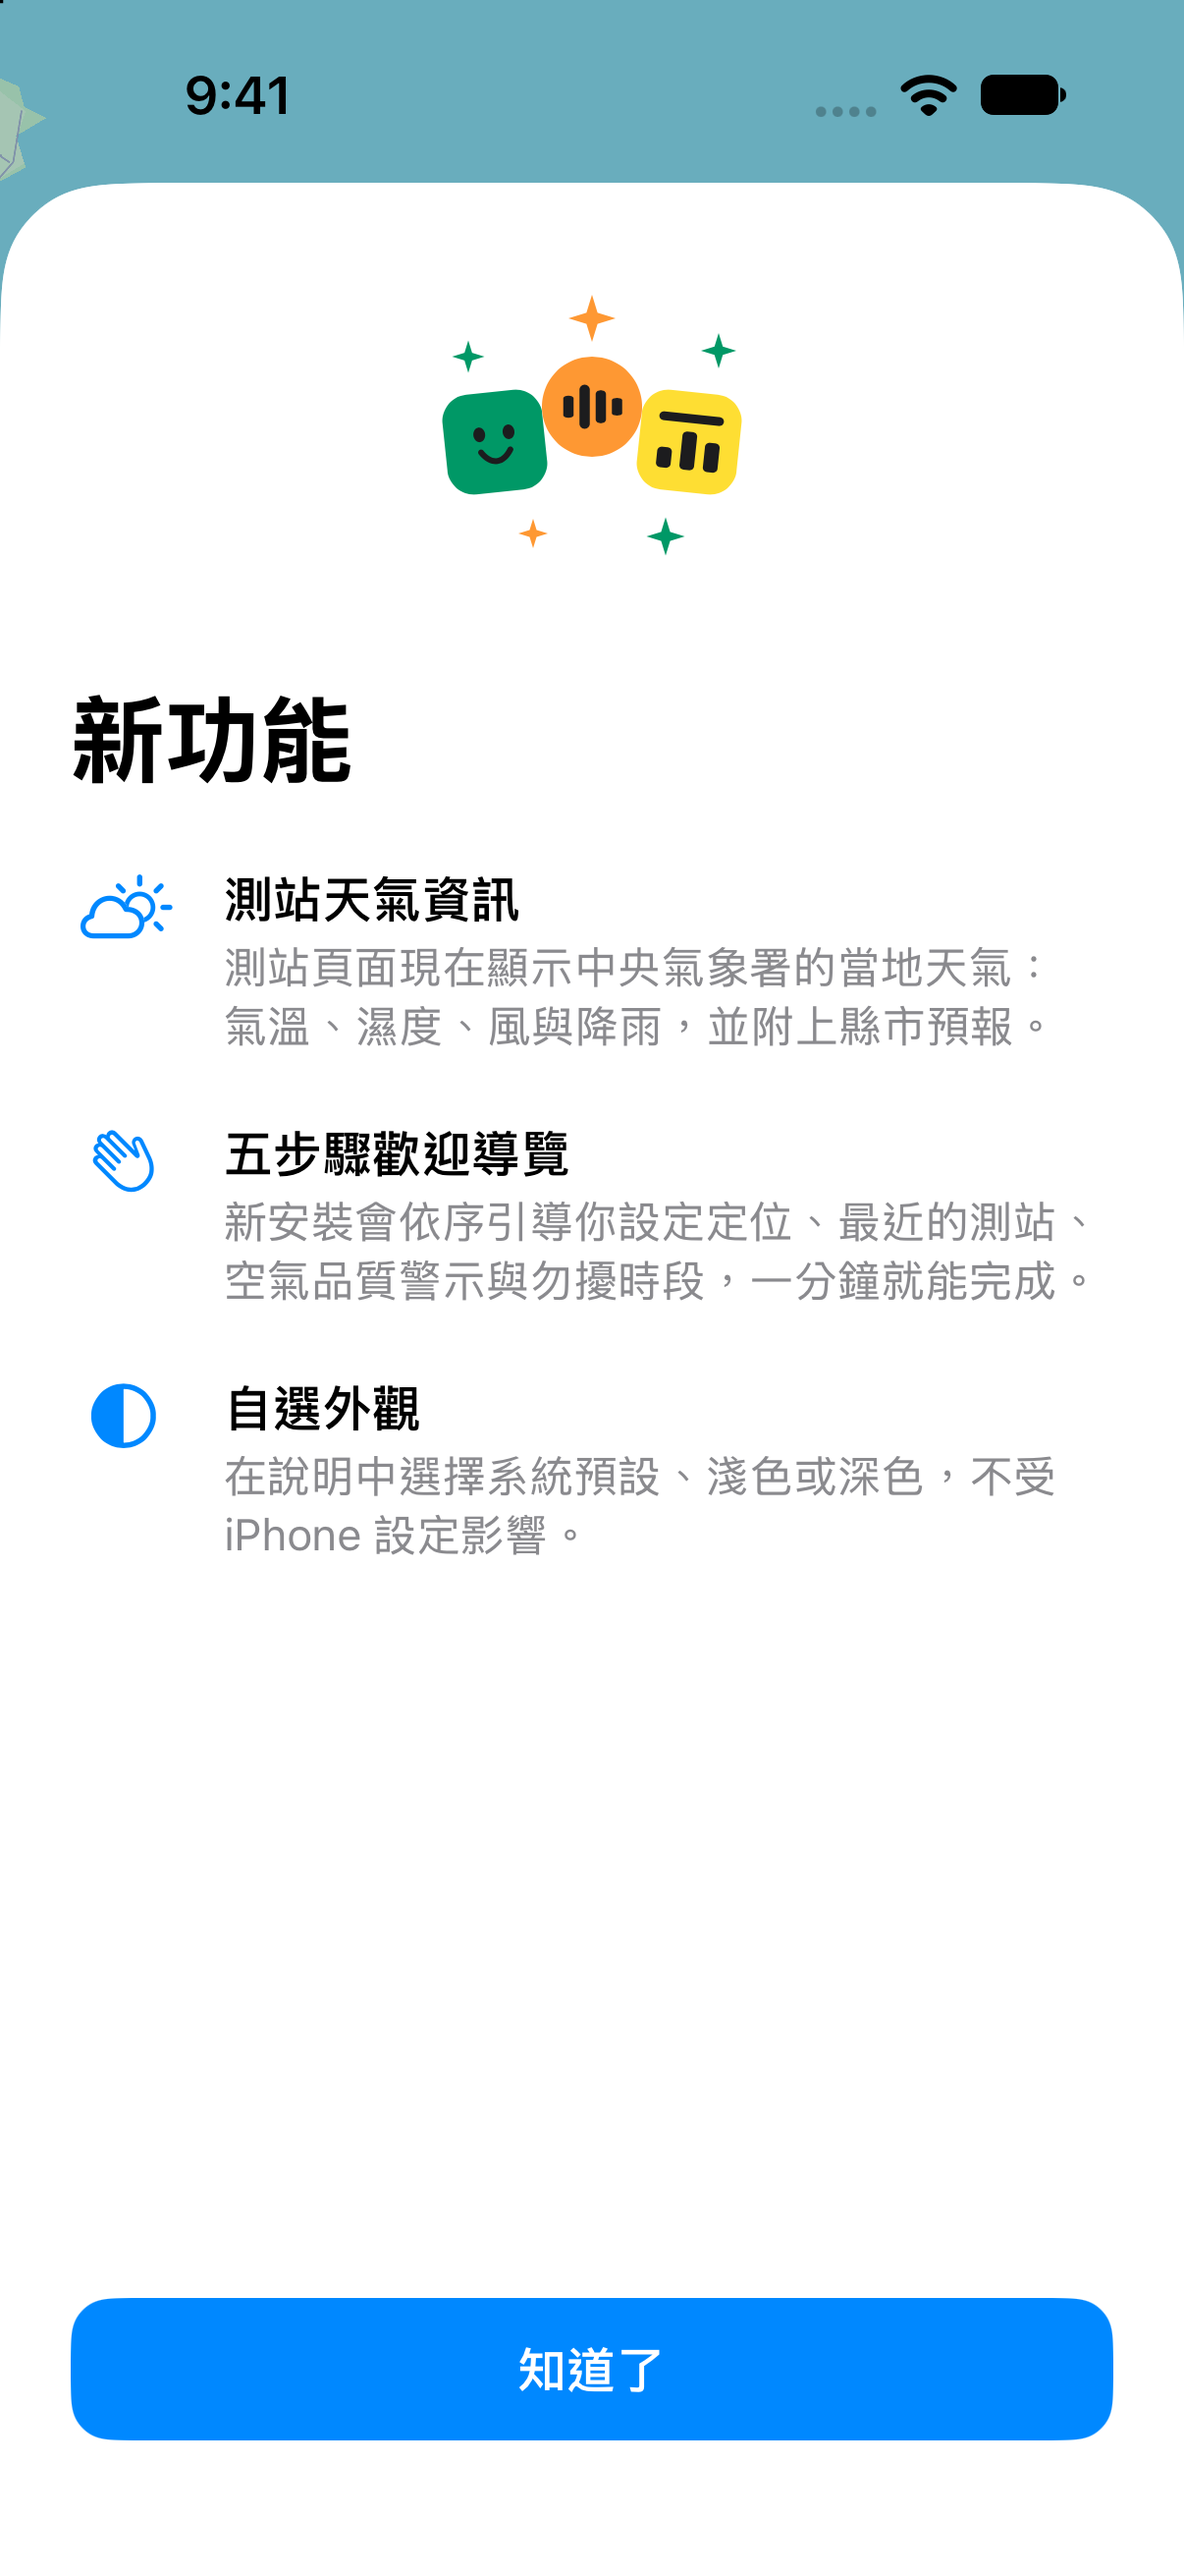
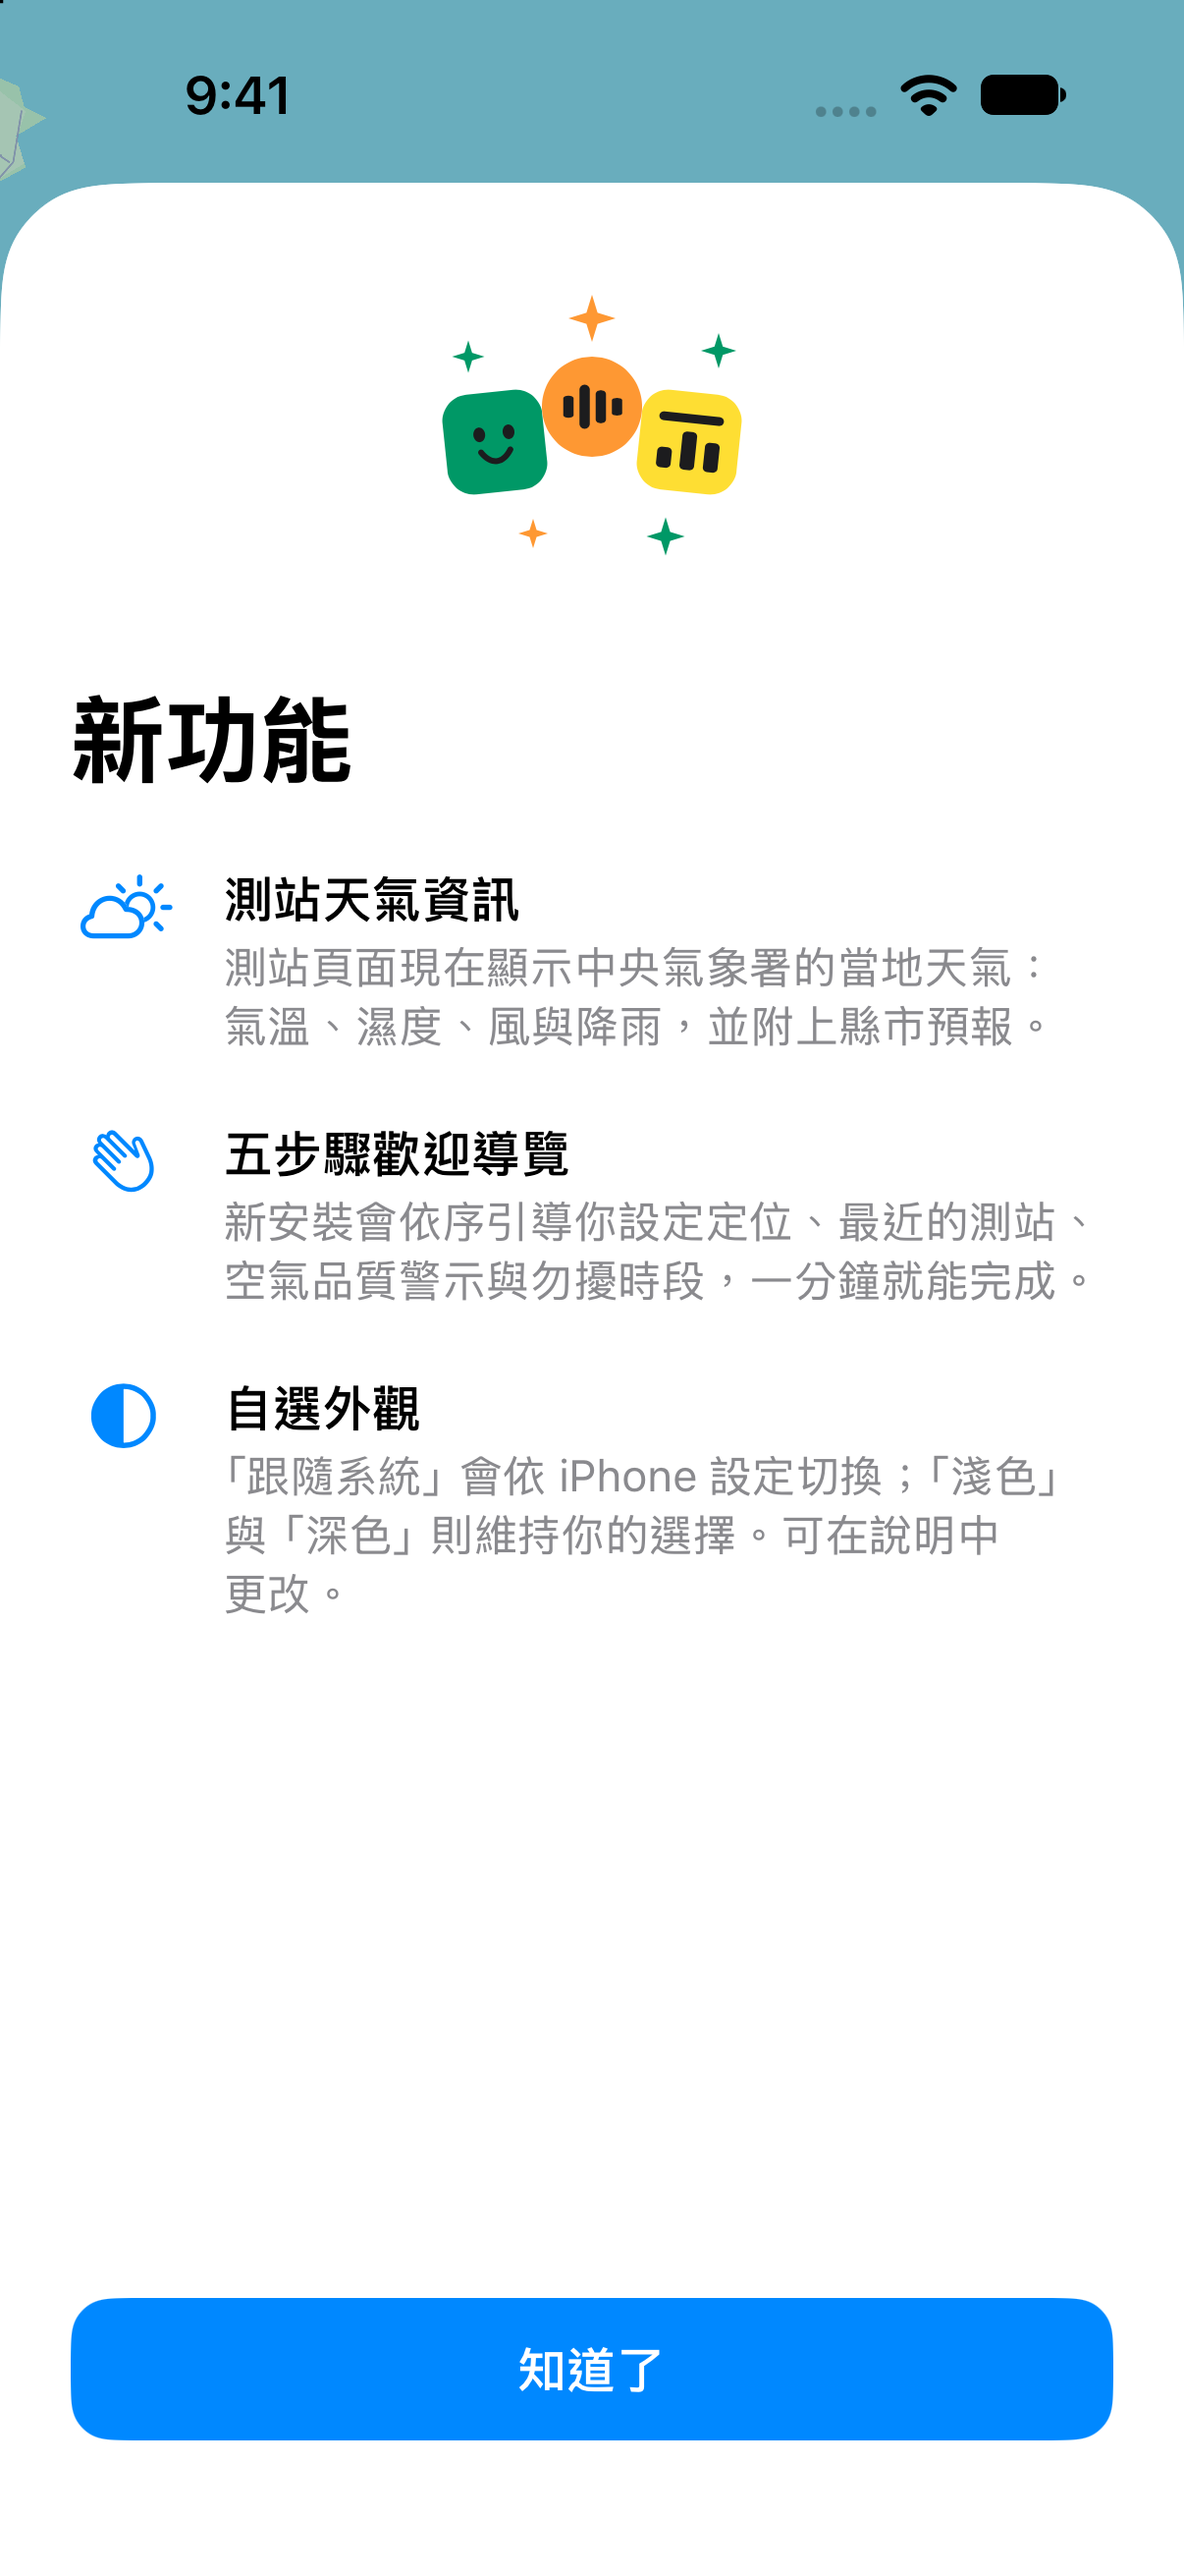
FOX-142: Hold What's New only for prompts this launch asks for; wait and open after they are answered; fix Appearance copy

Changed region(s): [[0.1841, 0.5561, 0.8897, 0.6178]]

diff --git a/ios/TWAQI/ContentView.swift b/ios/TWAQI/ContentView.swift
@@ -106,17 +106,24 @@ struct ContentView: View {
     }
 
     /// Opens What's New a moment after launch, unless something else is on
-    /// screen or a system permission prompt is still due. Skipped launches
-    /// aren't counted; it comes on a later one.
+    /// screen. While a system permission prompt this launch asks for is
+    /// still unanswered it waits (up to 30 s) and opens once it is answered;
+    /// a launch that gives up isn't counted, so it comes on a later one.
     private func presentWhatsNewIfDue() async {
         guard opensWhatsNew else { return }
-        try? await Task.sleep(nanoseconds: 1_500_000_000)
-        let notifications = await UNUserNotificationCenter.current().notificationSettings()
-        let locationUndetermined = CLLocationManager.authorizationStatus() == .notDetermined
-        guard WhatsNew.isClearOfPermissionPrompts(
-            locationUndetermined: locationUndetermined,
-            notificationsUndetermined: notifications.authorizationStatus == .notDetermined
-        ), !showingOnboarding, router.openedStation == nil, !router.showingPro else { return }
+        let pushPrompts = OnboardingStore().promptsForPushAtLaunch
+        for attempt in 0..<31 {
+            try? await Task.sleep(nanoseconds: attempt == 0 ? 1_500_000_000 : 1_000_000_000)
+            if Task.isCancelled { return }
+            let notifications = await UNUserNotificationCenter.current().notificationSettings()
+            if WhatsNew.isClearOfPermissionPrompts(
+                locationUndetermined: CLLocationManager.authorizationStatus() == .notDetermined,
+                notificationsUndetermined: notifications.authorizationStatus == .notDetermined,
+                pushPromptsAtLaunch: pushPrompts
+            ) { break }
+            if attempt == 30 { return }
+        }
+        guard !Task.isCancelled, !showingOnboarding, router.openedStation == nil, !router.showingPro else { return }
         showingWhatsNew = true
     }
 

diff --git a/ios/TWAQI/Utils/WhatsNew.swift b/ios/TWAQI/Utils/WhatsNew.swift
@@ -62,12 +62,18 @@ enum WhatsNew {
         return false
     }
 
-    /// Nothing may open over a system permission prompt that is still
-    /// waiting to be asked or answered (location from the map, notifications
-    /// for older installs). The launch is skipped, not counted, so the popup
-    /// comes on a later one.
-    static func isClearOfPermissionPrompts(locationUndetermined: Bool, notificationsUndetermined: Bool) -> Bool {
-        !locationUndetermined && !notificationsUndetermined
+    /// Nothing may open over a system permission prompt this launch asks
+    /// for. Location: with the welcome flow closed the map asks while it is
+    /// undetermined. Notifications: only an install that `AppDelegate` asks
+    /// at launch (`pushPromptsAtLaunch`); a quiet `.notDetermined` (welcome
+    /// skipped before its notifications step) never prompts, so it must not
+    /// hold the popup back forever.
+    static func isClearOfPermissionPrompts(
+        locationUndetermined: Bool,
+        notificationsUndetermined: Bool,
+        pushPromptsAtLaunch: Bool
+    ) -> Bool {
+        !locationUndetermined && !(notificationsUndetermined && pushPromptsAtLaunch)
     }
 
     /// A scene has taken the popup on this launch. Main thread only; tests

diff --git a/ios/TWAQITests/WhatsNewTests.swift b/ios/TWAQITests/WhatsNewTests.swift
@@ -73,9 +73,15 @@ final class WhatsNewTests: XCTestCase {
     }
 
     func testPermissionPromptsHoldItBack() {
-        XCTAssertTrue(WhatsNew.isClearOfPermissionPrompts(locationUndetermined: false, notificationsUndetermined: false))
-        XCTAssertFalse(WhatsNew.isClearOfPermissionPrompts(locationUndetermined: true, notificationsUndetermined: false))
-        XCTAssertFalse(WhatsNew.isClearOfPermissionPrompts(locationUndetermined: false, notificationsUndetermined: true))
+        func clear(_ location: Bool, _ notifications: Bool, _ push: Bool) -> Bool {
+            WhatsNew.isClearOfPermissionPrompts(
+                locationUndetermined: location, notificationsUndetermined: notifications, pushPromptsAtLaunch: push)
+        }
+        XCTAssertTrue(clear(false, false, true))
+        XCTAssertFalse(clear(true, false, false))
+        // Notifications hold it back only when the launch asks for them.
+        XCTAssertFalse(clear(false, true, true))
+        XCTAssertTrue(clear(false, true, false))
     }
 
     func testOnlyOneSceneClaimsThePopup() {
